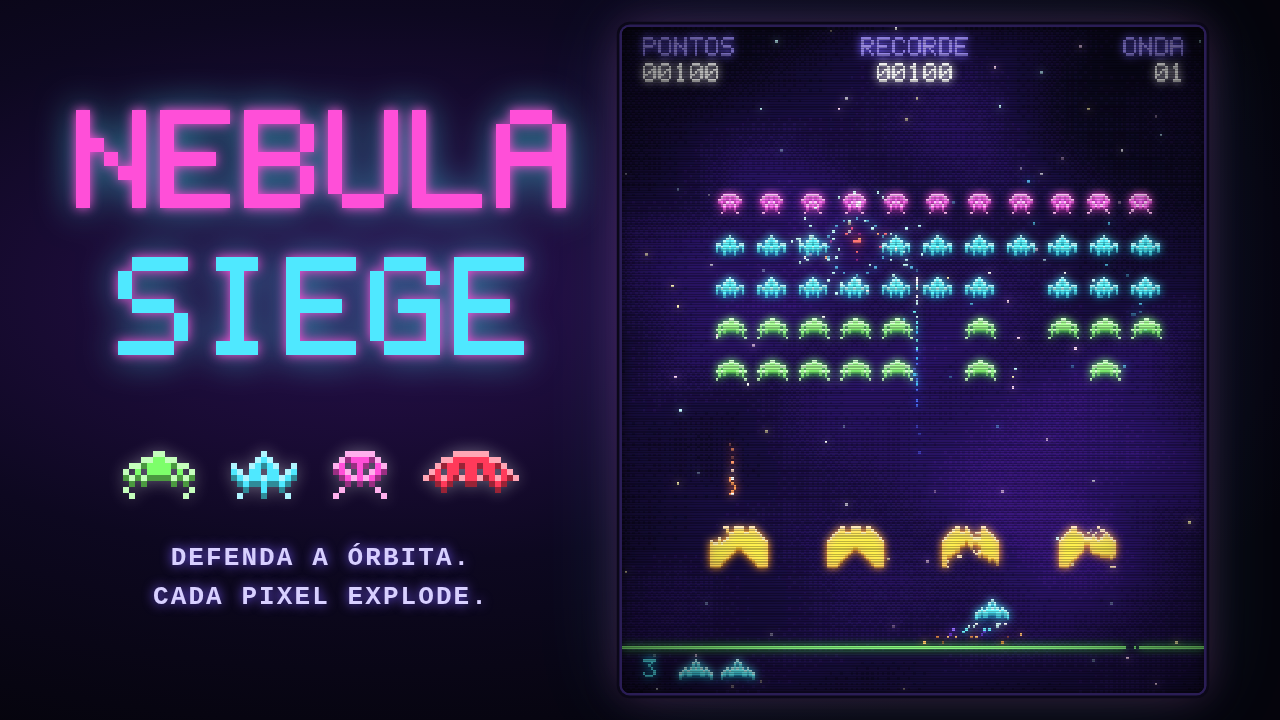
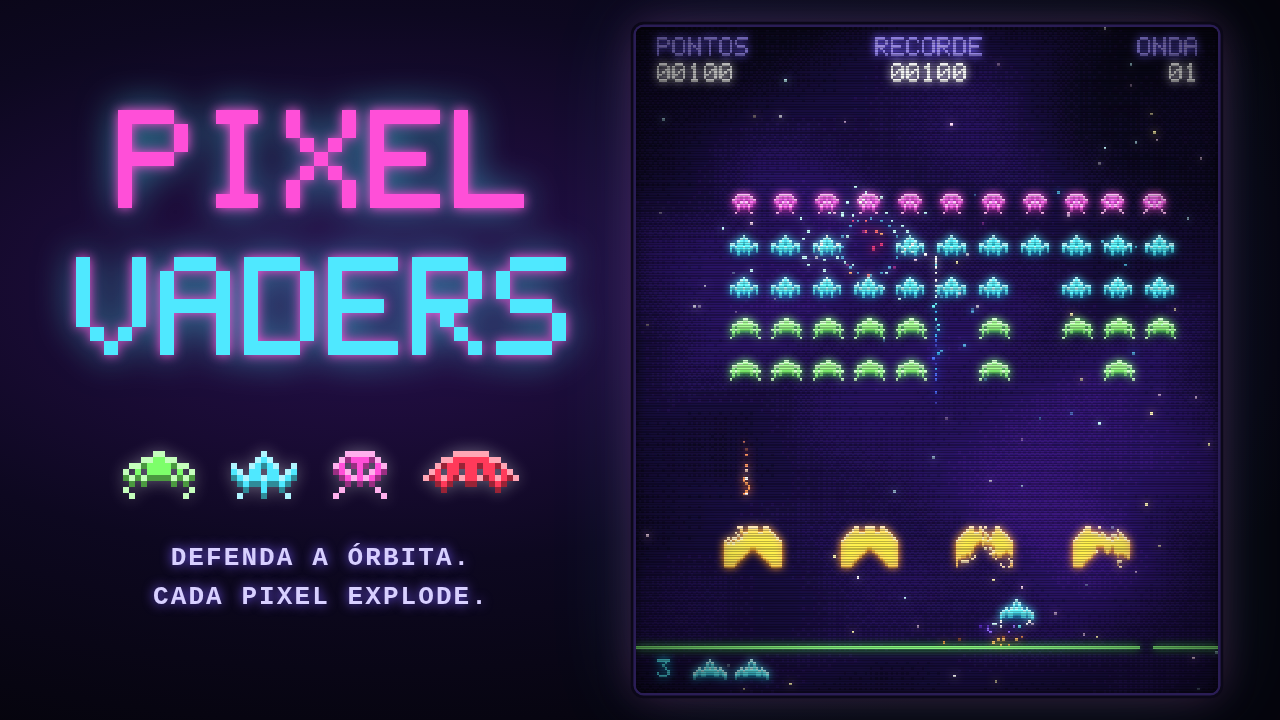
Renomeia o jogo para Pixel Vaders
Atualiza o logo de partículas da tela de título, o título da página,
o README e regera a thumbnail com o novo nome.

diff --git a/game.js b/game.js
@@ -1,6 +1,6 @@
 'use strict';
 /*
- * NEBULA SIEGE — shooter fixo no estilo dos arcades de 1978.
+ * PIXEL VADERS — shooter fixo no estilo dos arcades de 1978.
  * Mecânica fiel ao clássico do gênero:
  *  - formação 11 x 5, um alienígena se move por frame (a marcha acelera
  *    naturalmente conforme a formação diminui)
@@ -871,8 +871,8 @@
     c.width = W; c.height = 50;
     const g = c.getContext('2d');
     g.imageSmoothingEnabled = false;
-    drawText(g, 'NEBULA', W / 2, 1, '#fff', 'center', 3);
-    drawText(g, 'SIEGE', W / 2, 27, '#fff', 'center', 3);
+    drawText(g, 'PIXEL', W / 2, 1, '#fff', 'center', 3);
+    drawText(g, 'VADERS', W / 2, 27, '#fff', 'center', 3);
     const d = g.getImageData(0, 0, W, 50).data;
     titleParts = [];
     for (let y = 0; y < 50; y++) for (let x = 0; x < W; x++) {

diff --git a/index.html b/index.html
@@ -3,13 +3,13 @@
 <head>
   <meta charset="utf-8">
   <meta name="viewport" content="width=device-width, initial-scale=1, maximum-scale=1, user-scalable=no">
-  <title>Nebula Siege</title>
+  <title>Pixel Vaders</title>
   <link rel="stylesheet" href="style.css">
 </head>
 <body>
   <main id="app">
     <div id="screen-wrap">
-      <canvas id="screen" aria-label="Tela do jogo Nebula Siege"></canvas>
+      <canvas id="screen" aria-label="Tela do jogo Pixel Vaders"></canvas>
       <canvas id="glow" aria-hidden="true"></canvas>
       <div class="crt" aria-hidden="true"></div>
     </div>

diff --git a/README.md b/README.md
@@ -1,8 +1,8 @@
 <p align="center">
-  <img src="thumbnail.png" alt="Nebula Siege: logo em pixel art ao lado de uma partida com a formação alienígena, escudos e a nave do jogador" width="100%">
+  <img src="thumbnail.png" alt="Pixel Vaders: logo em pixel art ao lado de uma partida com a formação alienígena, escudos e a nave do jogador" width="100%">
 </p>
 
-<h1 align="center">NEBULA SIEGE</h1>
+<h1 align="center">PIXEL VADERS</h1>
 
 <p align="center">
   <b>Defenda a órbita. Cada pixel explode.</b><br>
